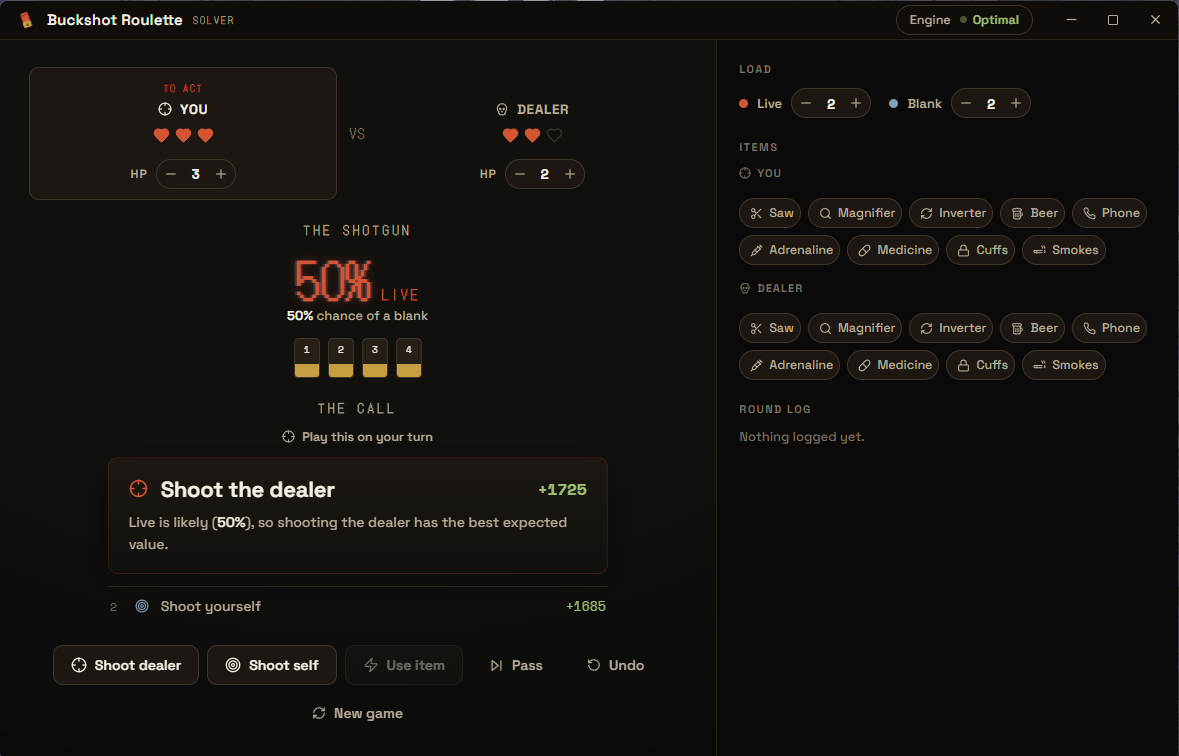
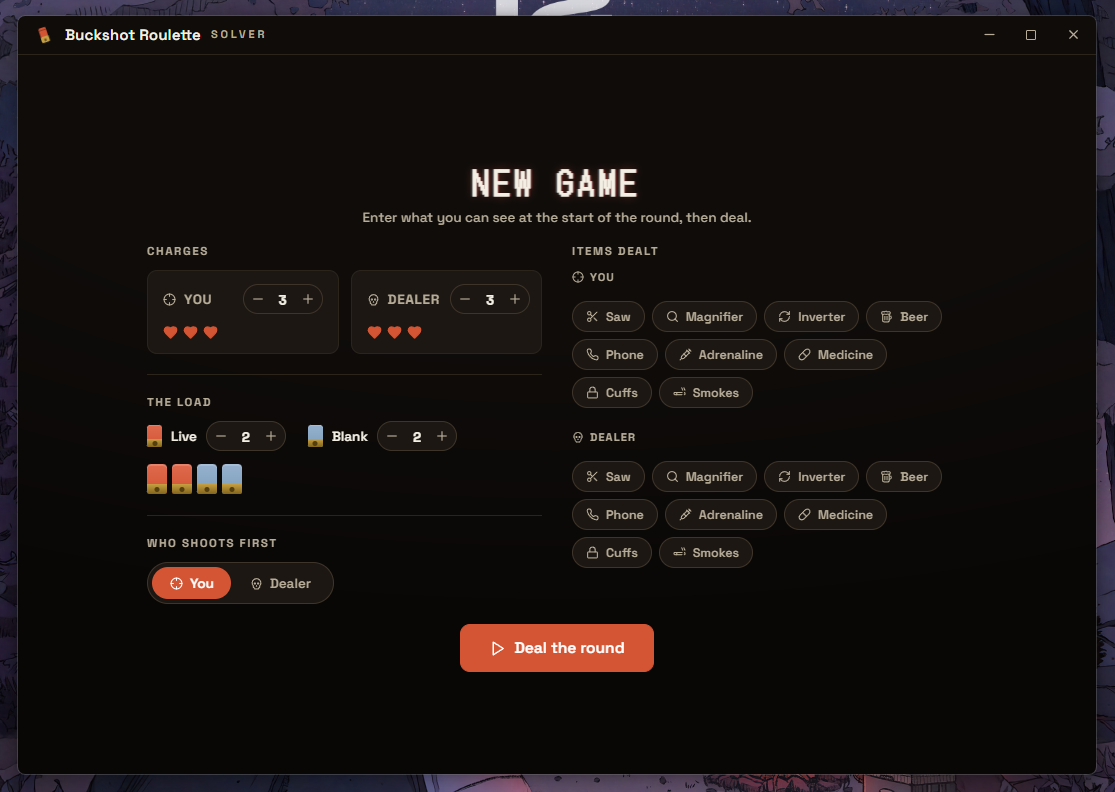
Increase the default window size (1160x860, min 960x700)

diff --git a/src/main/main.ts b/src/main/main.ts
@@ -7,10 +7,10 @@ const isDev = Boolean(process.env.VITE_DEV_SERVER_URL);
 
 function createWindow(): void {
   const win = new BrowserWindow({
-    width: 1080,
-    height: 760,
+    width: 1160,
+    height: 860,
     minWidth: 960,
-    minHeight: 680,
+    minHeight: 700,
     backgroundColor: "#0e0b09",
     title: "Buckshot Roulette Solver",
     icon: path.join(__dirname, "../../assets/icon.ico"),